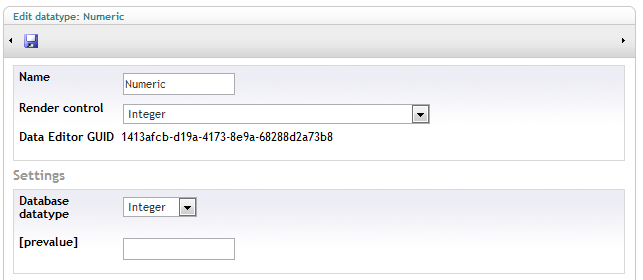
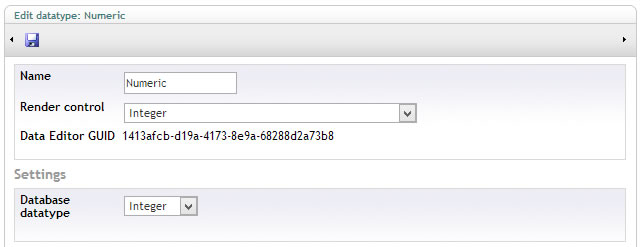
Update Integer property editor for MVC

diff --git a/Documentation/Using-Umbraco/Backoffice-Overview/Property-Editors/Built-in-Property-Editors/Integer.md b/Documentation/Using-Umbraco/Backoffice-Overview/Property-Editors/Built-in-Property-Editors/Integer.md
@@ -4,8 +4,6 @@
 
 A simple textbox to input a numeric value
 
-NOTE: Validation regular expressions do not function on this property editor and the prevalue within the data type settings performs no function.
-
 ##Data Type Definition Example
 
 ![Integer Data Type Definition](images/Integer-DataType.jpg?raw=true)
@@ -14,16 +12,35 @@ NOTE: Validation regular expressions do not function on this property editor and
 
 ![Integer Content Example](images/Integer-Content.jpg?raw=true)
 
-##XSLT Example
+##MVC View Example
 
-	<xsl:if test="string-length($currentPage/stockLevel) > 0">  
-	  <p><xsl:value-of select="$currentPage/stockLevel"/></p>  
-	</xsl:if>
+###Typed:
 
-##Razor (DynamicNode) Example
+    @{
+        if (Model.Content.HasValue("stockLevel")){    
+        Int32 stockLevel = Model.Content.GetPropertyValue<Int32>("stockLevel");
+        <p>@stockLevel.ToString()</p>                                                                                    
+        }
+    }
+
+###Dynamic: 
+
+    @{
+        if (CurrentPage.HasValue("stockLevel")){                                                     
+        <p>@CurrentPage.stockLevel</p>                                                                                    
+        }
+    }
+
+##Razor Macro (DynamicNode) Example
 
 	@{
 	  if (Model.HasValue("stockLevel")){                                                     
 	   <p>@Model.stockLevel</p>                                                                                    
 	  }
 	}
+
+##XSLT Macro Example
+
+	<xsl:if test="string-length($currentPage/stockLevel) > 0">  
+	  <p><xsl:value-of select="$currentPage/stockLevel"/></p>  
+	</xsl:if>
